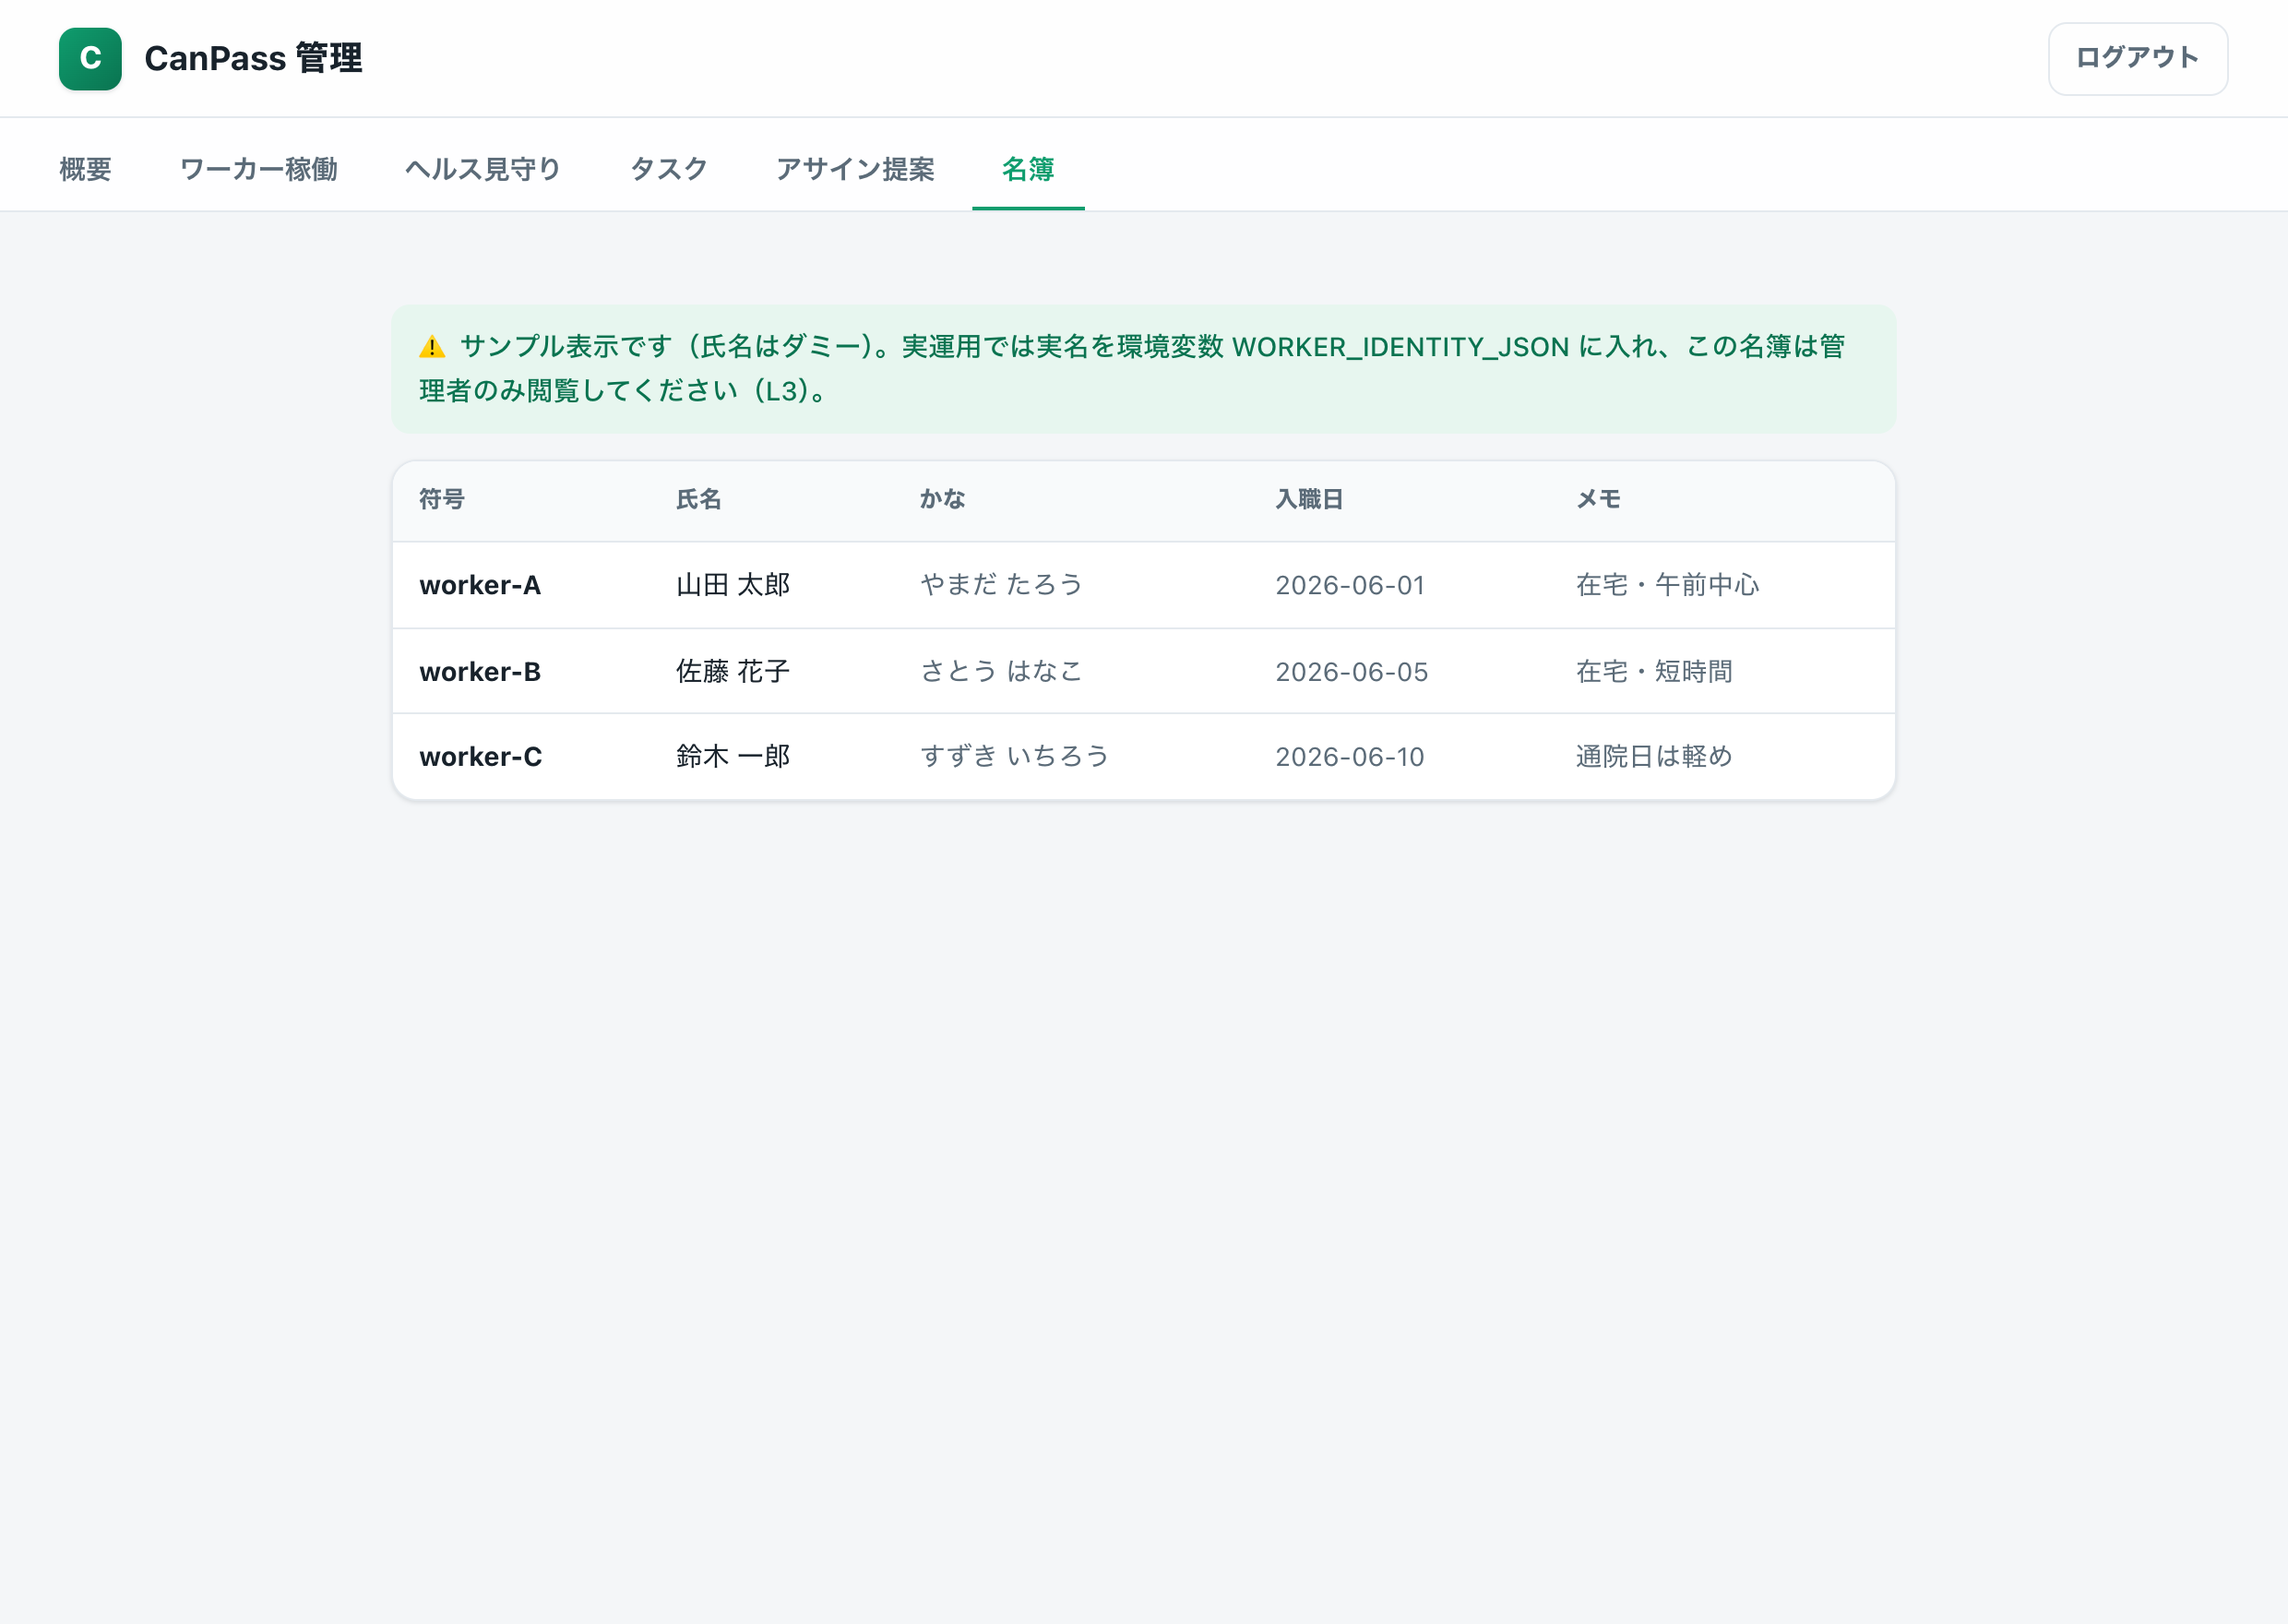
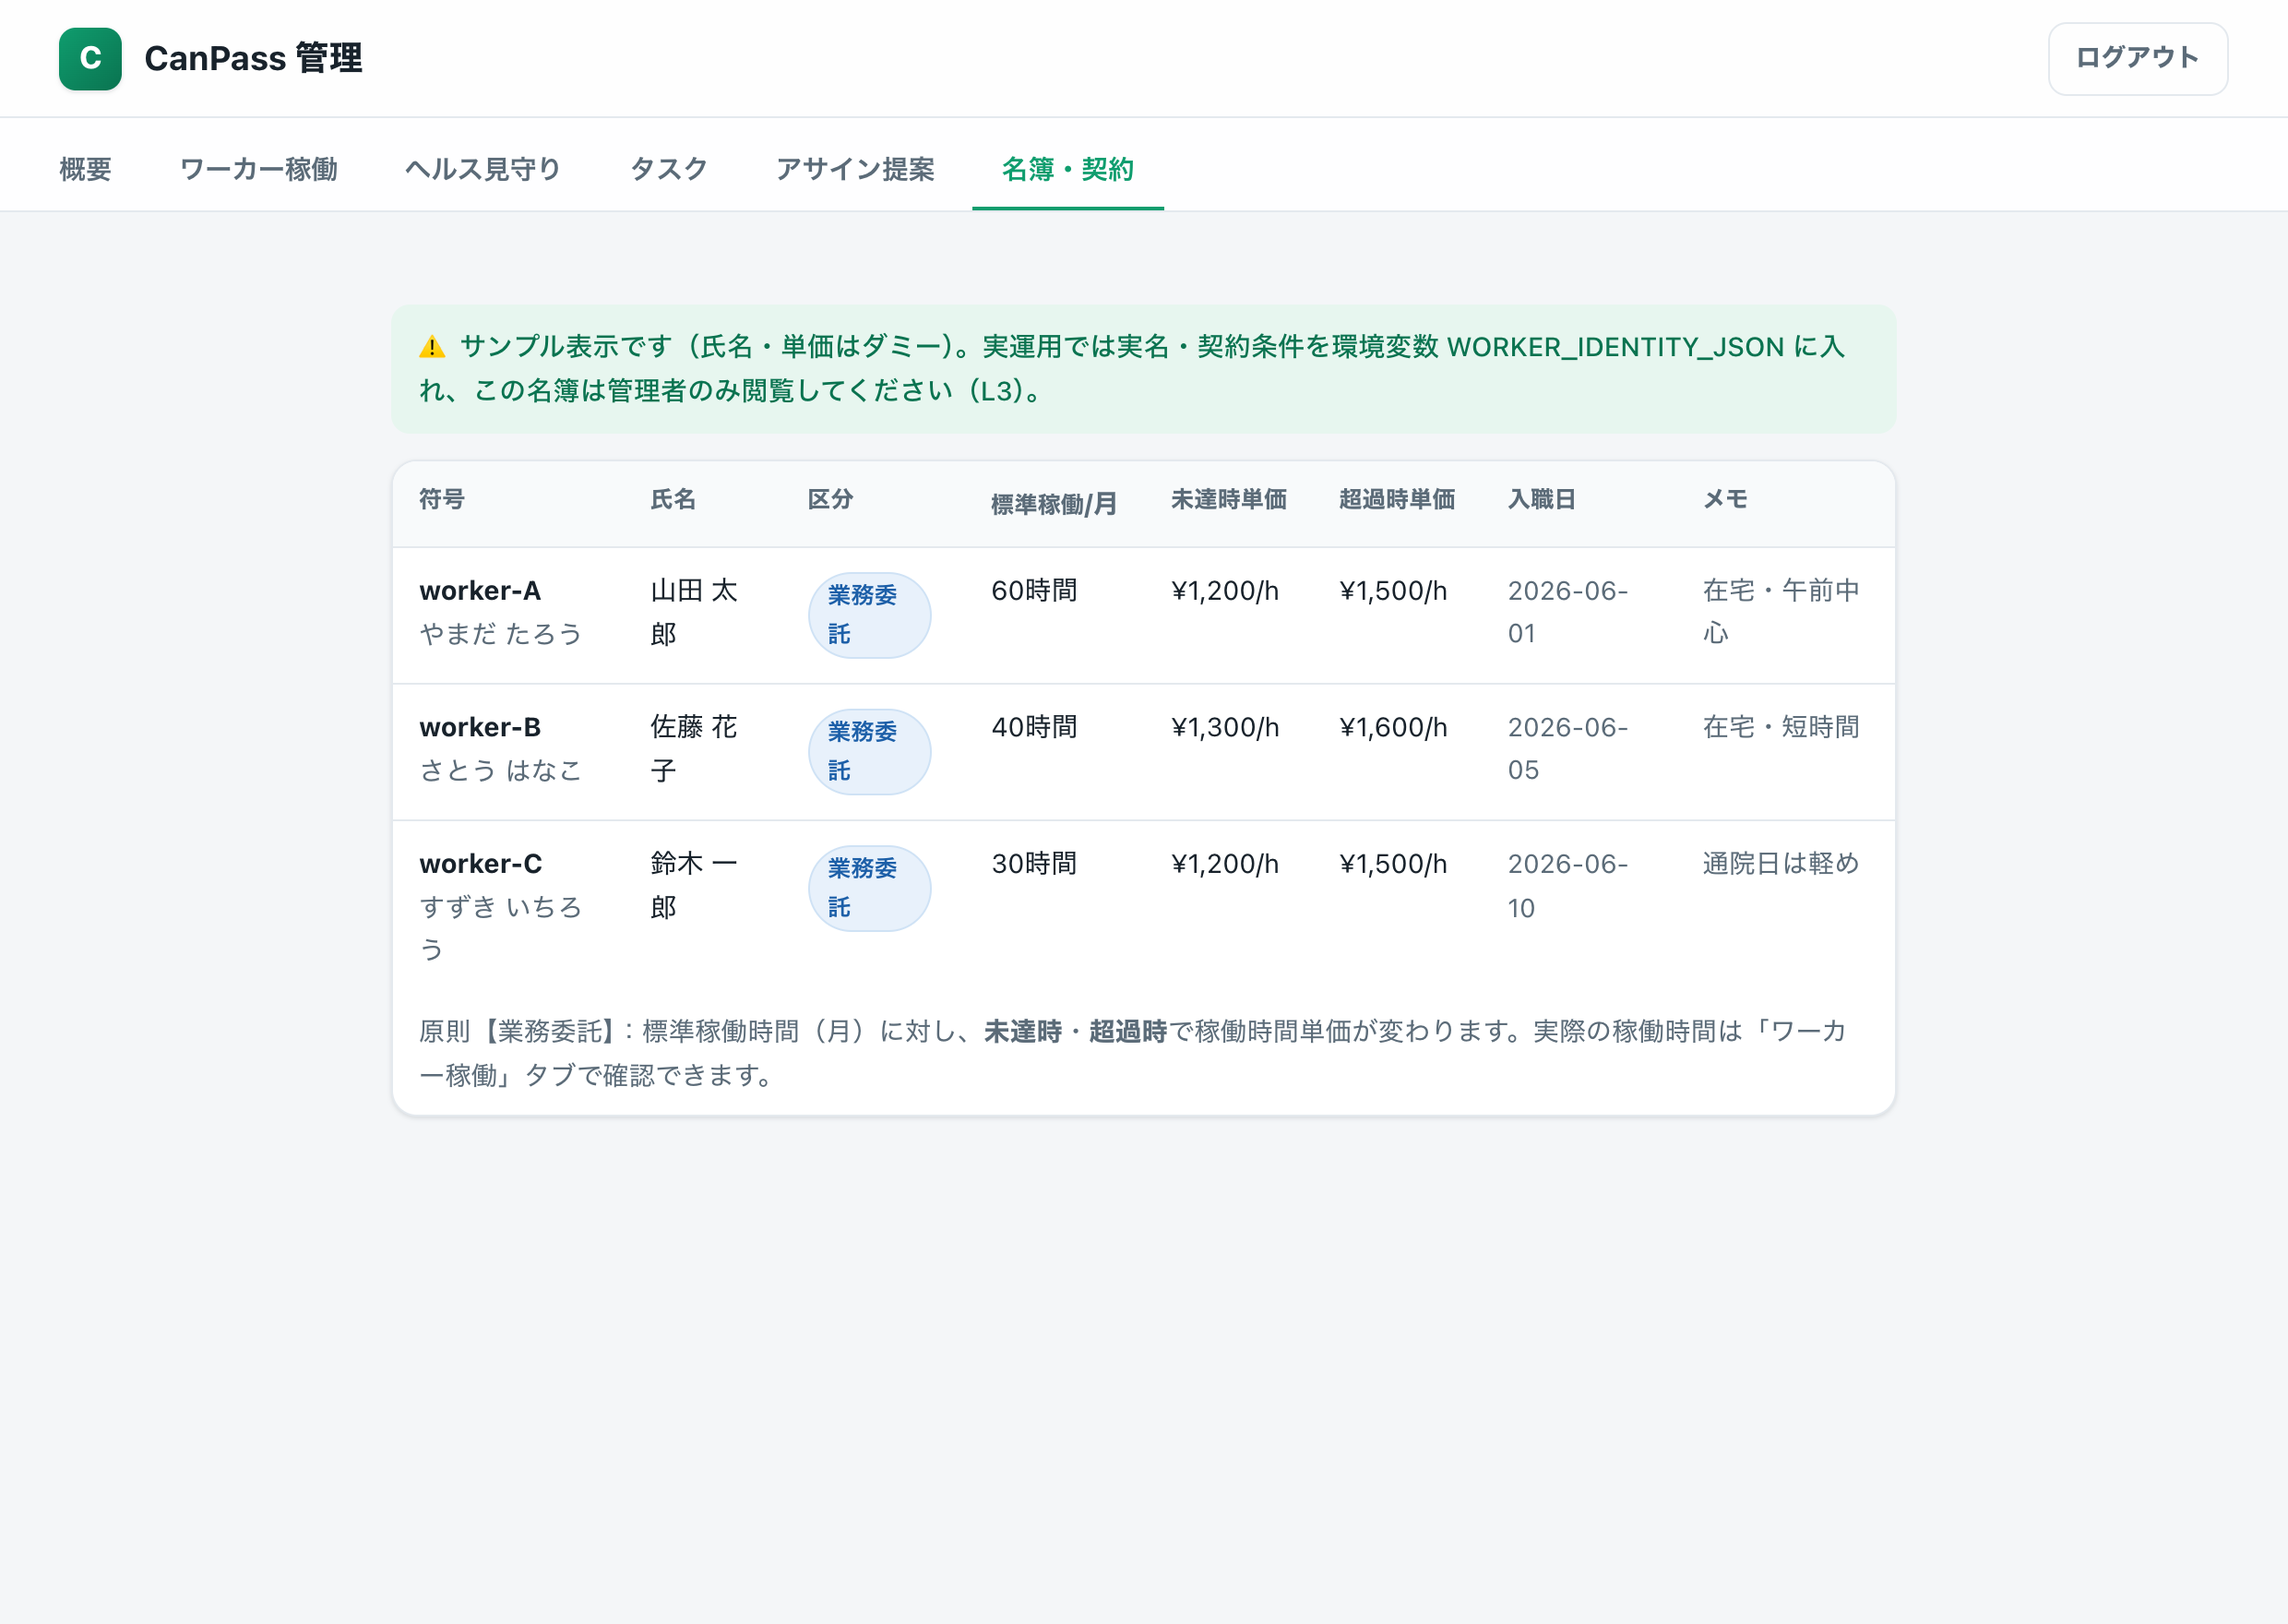
ポータル: 管理画面ガイドに契約条件(名簿・契約)を反映＋キャプチャ更新
- 名簿・契約タブ（業務委託の標準稼働・未達/超過単価）を説明・撮り直し
- 全admin画面を最新タブ構成で再撮影

diff --git a/admin-guide.html b/admin-guide.html
@@ -136,11 +136,11 @@ html,body{background:var(--bg);color:var(--ink);font-family:-apple-system,"Hirag
   <!-- 名簿 -->
   <div class="feat">
     <div class="bd">
-      <span class="tabname">名簿</span>
-      <h3>符号↔実名（管理者だけが見られる）</h3>
-      <p>符号と実名の対応表。<b>管理者だけ</b>がこの画面で参照できます。ワーカー側アプリ・各種ログ・公開物には実名は一切出ません（符号で運用）。下の画像はサンプル（氏名はダミー）です。</p>
-      <img class="shot" src="assets/admin/admin-06-roster.png" alt="名簿タブ">
-      <div class="cap">名簿：符号↔実名（L3・管理者限定。実運用では実名を安全な別管理に）</div>
+      <span class="tabname">名簿・契約</span>
+      <h3>符号↔実名＋契約条件（管理者だけが見られる）</h3>
+      <p>符号と実名に加えて、<b>契約条件</b>もここで管理します。原則<b>業務委託</b>で、<b>標準稼働時間（月）</b>に対して<b>未達時・超過時の稼働時間単価</b>を併記します。<b>管理者だけ</b>が参照でき、ワーカー側アプリ・各種ログ・公開物には実名・単価は一切出ません（符号で運用）。下の画像はサンプル（氏名・金額はダミー）です。</p>
+      <img class="shot" src="assets/admin/admin-06-roster.png" alt="名簿・契約タブ">
+      <div class="cap">名簿・契約：符号↔実名＋業務委託の標準稼働／未達・超過単価（L3・管理者限定）</div>
     </div>
   </div>
 
